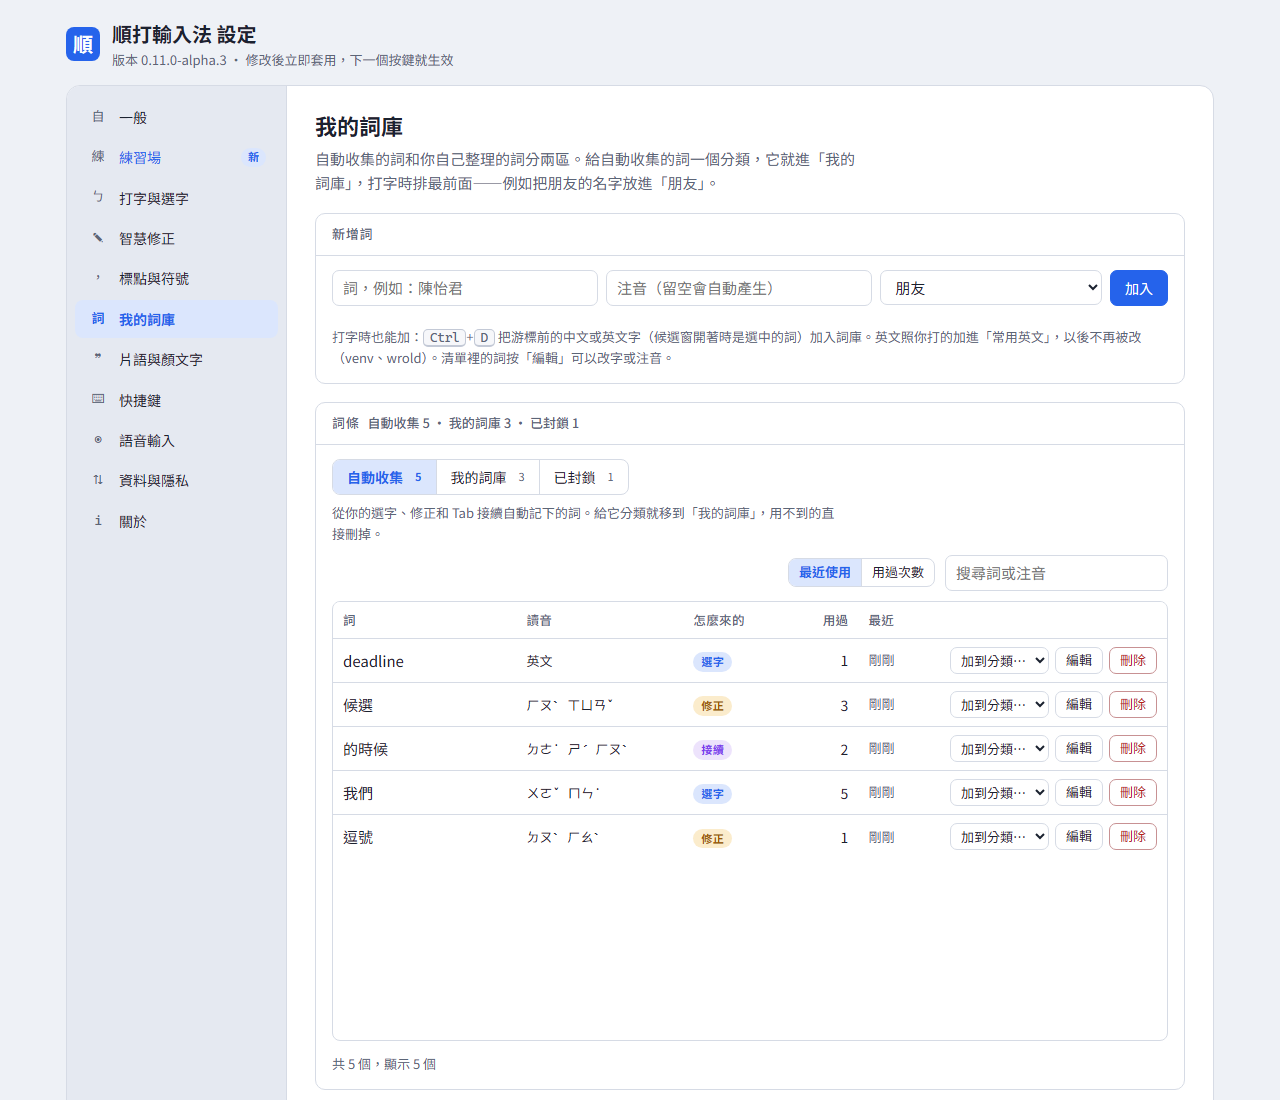
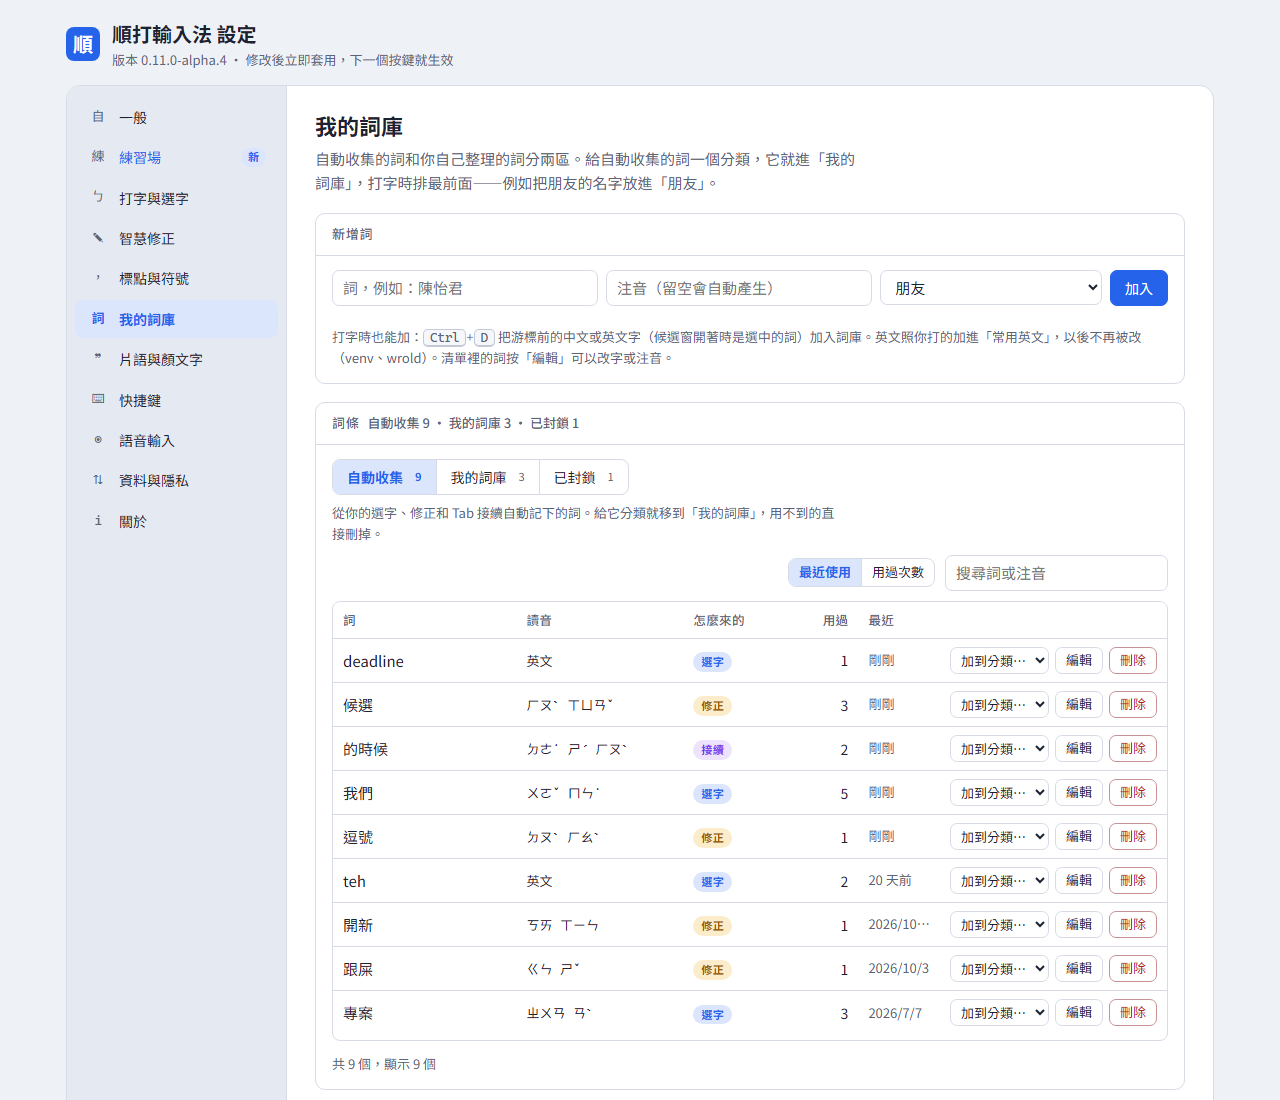
docs: 0.11.0-alpha.4 的 CHANGELOG、首頁版本籤；重跑文件圖（我的詞庫多了整理建議）
首頁「下一版」換成 alpha.4，alpha.3 收進 0.11.0 的測試版清單：未發佈，但有 git 標籤，給原始碼連結。

diff --git a/docs/index.html b/docs/index.html
@@ -312,7 +312,7 @@ footer .keycap-sm { font-size: 13px; width: 28px; height: 28px; border-radius: 7
   <!-- Version list: written by hand, updated with every version (CLAUDE.md §3).
        It ships with the page so the local copy opens offline. -->
   <details class="ver" id="ver">
-    <summary aria-label="版本：目前 0.10.0-beta.1，已在 GitHub 發佈；下一版 0.11.0-alpha.3 試用中。點開看所有版本"><i class="dot"></i><b>v0.10.0-beta.1</b>已發佈<span class="next" aria-hidden="true">下一版 0.11.0-alpha.3</span><span class="chev" aria-hidden="true">▼</span></summary>
+    <summary aria-label="版本：目前 0.10.0-beta.1，已在 GitHub 發佈；下一版 0.11.0-alpha.4 試用中。點開看所有版本"><i class="dot"></i><b>v0.10.0-beta.1</b>已發佈<span class="next" aria-hidden="true">下一版 0.11.0-alpha.4</span><span class="chev" aria-hidden="true">▼</span></summary>
     <div class="ver-pop">
       <h3>版本</h3>
       <p class="intro">「下載安裝檔」拿到的是最新的正式版。測試版、候選版多半只在開發者的電腦上建置、試用；下面有附「下載」連結的，才是在 GitHub 上公開發佈過的。</p>
@@ -320,8 +320,10 @@ footer .keycap-sm { font-size: 13px; width: 28px; height: 28px; border-radius: 7
       <div class="ver-group">
         <p class="eyebrow">下一版</p>
         <div class="next-card">
-          <div class="next-head"><span class="v-name">0.11.0-alpha.3</span><span class="st st-alpha">測試版</span></div>
+          <div class="next-head"><span class="v-name">0.11.0-alpha.4</span><span class="st st-alpha">測試版</span></div>
           <ul class="next-items">
+            <li><b>詞庫的整理建議</b>：列出可能用不到的詞，勾選刪除；照規則在本機判斷，不用 AI</li>
+            <li><b>＠＃＄％＆＊ 有鍵了</b>：Ctrl+Shift+數字；任何符號後按 ↓ 都有全形</li>
             <li><b>設定頁更好讀</b>：每一列的說明大多剩一兩句</li>
             <li><b>國字換成注音</b>：候選窗最後一組「注音」，修正模式按 z 一個字一個字換</li>
             <li><b>看得到第幾頁</b>：候選窗右上角「第 3／27 頁」，Home 回第 1 頁</li>
@@ -337,8 +339,10 @@ footer .keycap-sm { font-size: 13px; width: 28px; height: 28px; border-radius: 7
         <p class="eyebrow">開發中 · 0.11.0</p>
         <ul class="ver-list">
           <li class="alphas"><details>
-            <summary><span class="st st-alpha">0.11.0 的測試版</span><span class="v-note">alpha.1 – alpha.2 · 2 個</span><span class="chev" aria-hidden="true">▼</span></summary>
+            <summary><span class="st st-alpha">0.11.0 的測試版</span><span class="v-note">alpha.1 – alpha.3 · 3 個</span><span class="chev" aria-hidden="true">▼</span></summary>
             <ul class="ver-list">
+          <li class="compact"><span class="v-name">alpha.3<span class="v-date">2026-11-24</span></span>
+            <span class="v-body"><span class="st st-unpub">未發佈</span><span class="v-note">設定頁的說明精簡成一兩句；實機測試工具修正</span><a href="https://github.com/ChouYangEn0401/shunda-ime/tree/v0.11.0-alpha.3">原始碼</a></span></li>
           <li class="compact"><span class="v-name">alpha.2<span class="v-date">2026-11-24</span></span>
             <span class="v-body"><span class="st st-unpub">未發佈</span><span class="v-note">國字換成注音（候選窗「注音」組、修正模式 z）；候選窗寫出第幾頁，Home 回第 1 頁</span></span></li>
           <li class="compact"><span class="v-name">alpha.1<span class="v-date">2026-11-24</span></span>

diff --git a/CHANGELOG.md b/CHANGELOG.md
@@ -20,6 +20,8 @@
 - **詞庫的整理建議**（alpha.4）：設定頁「我的詞庫」多了「整理建議」，列出自動收集的詞裡可能用不到的——只用過一次、14 天沒再用、又不是詞庫裡的詞（多半是誤選湊出來的）；90 天沒用；英文像打錯（`teh` → the）。勾選後刪除，你加的、分了類的不會出現。全部照規則在本機判斷，不用 AI、不上網。（120 天前只用過一次的照舊自動忘掉；這是更早、由你確認的版本。）
 
 **修正**
+- **Word、寫字板這類程式裡，反白之後單按 Ctrl 不再弄丟反白**（alpha.4）：以前開符號面板會把反白收成游標，接著打的字插在旁邊而不是取代它（記事本這類程式沒問題）。有系統游標的程式，面板現在直接靠在游標下面。
+- 設定頁「一般」的「Shift 的切換方式」說明裡有一段原始 HTML 露出來（alpha.3 精簡文字時寫壞），修好並加了測試。
 - **按標點時，畫面上的字不再變**：以前標點只保住中文，按下的那一刻英文會被重新判斷——`pnpm` 送出成 `npm`、`teh` 成 `the`、
   `venv` 的最後一個 `v` 被略過。現在標點送出的就是畫面上的字；英文打錯的自動更正改成只在接空白時發生（看得到，<kbd>↓</kbd> 還原）。
 - 設定頁「候選窗」那一列說「沒在打字時的符號面板一律用 PIME 的」，現在不對了，改掉；符號面板的預覽分頁也換成現在的名字。
